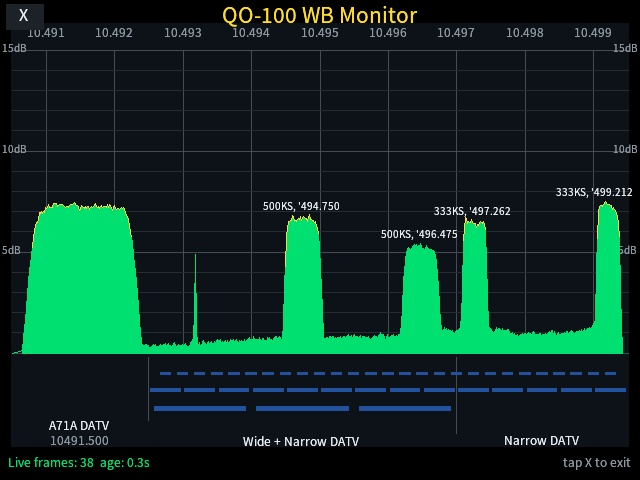
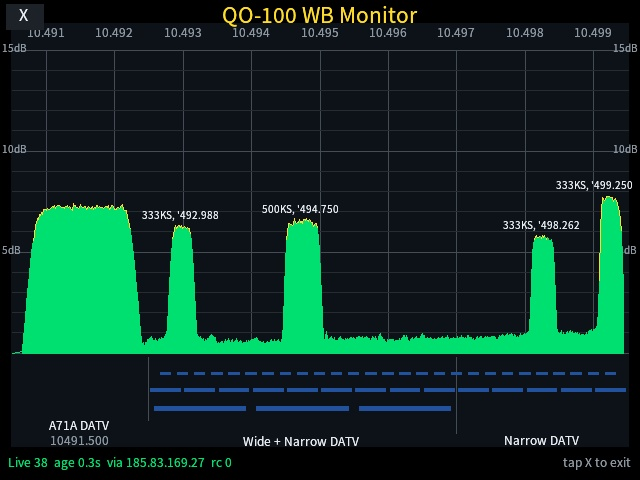
Harden BATC feed connection

diff --git a/main.py b/main.py
@@ -1,5 +1,6 @@
 from maix import app, display, image, time, touchscreen
 import base64
+import hashlib
 import os
 import socket
 import ssl
@@ -9,16 +10,25 @@ import _thread
 
 APP_TITLE = "QO-100 WB Monitor"
 
-BATC_HOST = "eshail.batc.org.uk"
-BATC_FALLBACK_IP = "185.83.169.27"
+BATC_HOST = os.environ.get("QO100_WB_HOST", "eshail.batc.org.uk")
 BATC_PORT = 443
-BATC_PATH = "/wb/fft"
-BATC_PROTOCOL = "fft"
+BATC_PATH = os.environ.get("QO100_WB_PATH", "/wb/fft")
+BATC_PROTOCOL = os.environ.get("QO100_WB_PROTOCOL", "fft")
+BATC_FALLBACK_IPS = tuple(
+    ip.strip()
+    for ip in os.environ.get("QO100_WB_FALLBACK_IPS", "185.83.169.27").split(",")
+    if ip.strip()
+)
+WS_GUID = "258EAFA5-E914-47DA-95CA-C5AB0DC85B11"
 CAFILE_CANDIDATES = (
     "/etc/ssl/certs/ca-certificates.crt",
     "/usr/lib/ssl/cert.pem",
     "/etc/ssl/cert.pem",
 )
+CONNECT_TIMEOUT_S = 10
+READ_TIMEOUT_S = 12
+RECONNECT_BASE_MS = 500
+RECONNECT_MAX_MS = 10000
 
 FFT_START_MHZ = 10490.5
 FFT_SPAN_MHZ = 9.0
@@ -71,6 +81,8 @@ class BatcFftClient:
         self.last_frame_ms = 0
         self.status = "starting"
         self.error = ""
+        self.source = ""
+        self.reconnects = 0
         self.running = True
         self.sock = None
 
@@ -84,15 +96,25 @@ class BatcFftClient:
     def snapshot(self):
         self.lock.acquire()
         try:
-            return self.latest, self.frames, self.last_frame_ms, self.status, self.error
+            return (
+                self.latest,
+                self.frames,
+                self.last_frame_ms,
+                self.status,
+                self.error,
+                self.source,
+                self.reconnects,
+            )
         finally:
             self.lock.release()
 
-    def _set_status(self, status, error=""):
+    def _set_status(self, status, error="", source=None):
         self.lock.acquire()
         try:
             self.status = status
             self.error = error
+            if source is not None:
+                self.source = source
         finally:
             self.lock.release()
 
@@ -117,30 +139,63 @@ class BatcFftClient:
                 pass
 
     def _run(self):
+        backoff_ms = RECONNECT_BASE_MS
         while self.running:
             try:
                 self._set_status("connecting")
                 self._connect_and_read()
+                backoff_ms = RECONNECT_BASE_MS
             except Exception as e:
+                self.lock.acquire()
+                try:
+                    self.reconnects += 1
+                finally:
+                    self.lock.release()
                 self._set_status("reconnecting", str(e))
                 print("BATC websocket reconnect: {}".format(e))
             self._close()
-            for _ in range(20):
+            delay_ms = backoff_ms
+            backoff_ms = min(RECONNECT_MAX_MS, backoff_ms * 2)
+            for _ in range(max(1, delay_ms // 100)):
                 if not self.running:
                     break
                 time.sleep_ms(100)
 
     def _connect_socket(self):
         last_error = None
-        for target in (BATC_HOST, BATC_FALLBACK_IP):
+        for target in self._connection_targets():
             try:
-                raw = socket.create_connection((target, BATC_PORT), timeout=10)
+                raw = socket.create_connection((target, BATC_PORT), timeout=CONNECT_TIMEOUT_S)
                 ctx = self._ssl_context()
-                return ctx.wrap_socket(raw, server_hostname=BATC_HOST)
+                return ctx.wrap_socket(raw, server_hostname=BATC_HOST), target
             except Exception as e:
                 last_error = e
                 print("connect {} failed: {}".format(target, e))
         raise last_error
+
+    def _connection_targets(self):
+        targets = []
+        seen = set()
+
+        def add(target):
+            if target and target not in seen:
+                seen.add(target)
+                targets.append(target)
+
+        try:
+            infos = socket.getaddrinfo(BATC_HOST, BATC_PORT, 0, socket.SOCK_STREAM)
+            for info in infos:
+                try:
+                    add(info[4][0])
+                except Exception:
+                    pass
+        except Exception as e:
+            print("DNS lookup {} failed: {}".format(BATC_HOST, e))
+
+        for ip in BATC_FALLBACK_IPS:
+            add(ip)
+        add(BATC_HOST)
+        return targets
 
     def _ssl_context(self):
         for cafile in CAFILE_CANDIDATES:
@@ -152,9 +207,10 @@ class BatcFftClient:
         return ssl.create_default_context()
 
     def _connect_and_read(self):
-        s = self._connect_socket()
-        s.settimeout(12)
+        s, source = self._connect_socket()
+        s.settimeout(READ_TIMEOUT_S)
         self.sock = s
+        self._set_status("handshake", source=source)
 
         key = base64.b64encode(os.urandom(16)).decode("ascii")
         request = (
@@ -181,11 +237,9 @@ class BatcFftClient:
                 raise RuntimeError("websocket handshake too large")
 
         head, rest = header.split(b"\r\n\r\n", 1)
-        status_line = head.split(b"\r\n", 1)[0].decode("latin1")
-        if "101" not in status_line:
-            raise RuntimeError(status_line)
+        self._validate_handshake(head, key)
 
-        self._set_status("waiting")
+        self._set_status("waiting", source=source)
         buf = rest
         while self.running:
             opcode, payload, buf = self._read_frame(s, buf)
@@ -198,6 +252,31 @@ class BatcFftClient:
                 raise RuntimeError("server closed websocket")
             elif opcode == 9:
                 self._send_control(s, 10, payload)
+            elif opcode in (1, 10):
+                pass
+            else:
+                print("ignored websocket opcode {}".format(opcode))
+
+    def _validate_handshake(self, head, key):
+        lines = head.decode("latin1").split("\r\n")
+        status_line = lines[0] if lines else ""
+        parts = status_line.split()
+        if len(parts) < 2 or parts[1] != "101":
+            raise RuntimeError(status_line)
+
+        headers = {}
+        for line in lines[1:]:
+            if ":" in line:
+                k, v = line.split(":", 1)
+                headers[k.strip().lower()] = v.strip()
+
+        expected = base64.b64encode(hashlib.sha1((key + WS_GUID).encode("ascii")).digest()).decode("ascii")
+        if headers.get("sec-websocket-accept", "") != expected:
+            raise RuntimeError("bad websocket accept")
+
+        protocol = headers.get("sec-websocket-protocol", "")
+        if protocol and protocol != BATC_PROTOCOL:
+            raise RuntimeError("bad websocket protocol {}".format(protocol))
 
     def _need(self, s, buf, count):
         while len(buf) < count:
@@ -461,19 +540,22 @@ def draw_spectrum(img, frame, plot_x, plot_w, graph_top, graph_bottom):
     return signals, beacon_strength
 
 
-def draw_status(img, frames, last_frame_ms, status, error):
+def draw_status(img, frames, last_frame_ms, status, error, source, reconnects):
     age_ms = now_ms() - last_frame_ms if last_frame_ms else 0
     if status == "live" and age_ms < 3000:
-        msg = "Live frames: {}  age: {:.1f}s".format(frames, age_ms / 1000.0)
+        source_text = source
+        if len(source_text) > 15:
+            source_text = source_text[:12] + "..."
+        msg = "Live {}  age {:.1f}s  via {}  rc {}".format(frames, age_ms / 1000.0, source_text, reconnects)
         col = COL_GREEN
-    elif status in ("connecting", "waiting"):
+    elif status in ("connecting", "handshake", "waiting"):
         msg = "{} {}".format(status, BATC_HOST)
         col = COL_YELLOW
     else:
         short_error = error
         if len(short_error) > 42:
             short_error = short_error[:39] + "..."
-        msg = "{} {}".format(status, short_error)
+        msg = "{} {} rc {}".format(status, short_error, reconnects)
         col = COL_RED
     img.draw_string(8, img.height() - 24, msg, col, 0.8)
     draw_text_right(img, img.width() - 8, img.height() - 24, "tap X to exit", COL_MUTED, 0.75)
@@ -543,10 +625,10 @@ try:
             app.set_exit_flag(True)
             break
 
-        frame, frames, last_frame_ms, status, error = client.snapshot()
+        frame, frames, last_frame_ms, status, error, source, reconnects = client.snapshot()
         draw_grid(base_img, plot_x, plot_y, plot_w, plot_h, graph_top, graph_bottom)
         draw_spectrum(base_img, frame, plot_x, plot_w, graph_top, graph_bottom)
-        draw_status(base_img, frames, last_frame_ms, status, error)
+        draw_status(base_img, frames, last_frame_ms, status, error, source, reconnects)
         draw_exit(base_img, touched_exit)
         disp.show(base_img)
         screenshot_saved = maybe_save_screenshot(base_img, start_ms, screenshot_saved)

diff --git a/README.md b/README.md
@@ -11,6 +11,8 @@ The app opens the same BATC wideband FFT feed used by <https://eshail.batc.org.u
 - Starts immediately into the live spectrum view.
 - Uses BATC's `wss://eshail.batc.org.uk/wb/fft` FFT feed.
 - Falls back to BATC's current IP address if local DNS is broken, while keeping TLS SNI and the HTTP `Host` header set to `eshail.batc.org.uk`.
+- Validates the WebSocket handshake, loads the system CA bundle explicitly on MaixPy, replies to server pings, and reconnects with backoff if the feed drops.
+- Shows the active connection source and reconnect count in the status line.
 - Draws the QO-100 wideband scale, beacon marker, DATV channel markers, live spectrum, and simple signal bandwidth/frequency labels.
 - Runs without third-party Python packages on MaixPy.
 
@@ -53,6 +55,21 @@ systemctl restart systemd-resolved
 getent hosts eshail.batc.org.uk
 ```
 
+The same fix can be applied from the development computer:
+
+```sh
+./scripts/fix_dns.sh root@<camera-host>
+```
+
+## Connection Settings
+
+The default feed settings should normally be left unchanged. For testing or a local relay, these environment variables are available:
+
+- `QO100_WB_HOST`: WebSocket host name, default `eshail.batc.org.uk`.
+- `QO100_WB_PATH`: WebSocket path, default `/wb/fft`.
+- `QO100_WB_PROTOCOL`: WebSocket subprotocol, default `fft`.
+- `QO100_WB_FALLBACK_IPS`: comma-separated fallback IPs, default `185.83.169.27`.
+
 ## Development Test
 
 For a one-shot remote screenshot during development, run the app with:
@@ -62,3 +79,9 @@ QO100_WB_SCREENSHOT=/tmp/qo100_wb_mon.jpg QO100_WB_SCREENSHOT_AFTER=10 python3 m
 ```
 
 The saved image is the exact frame drawn by the MaixPy renderer after the requested delay.
+
+To run the installed app remotely, wait 10 seconds, and pull the screenshot into the README image path:
+
+```sh
+./scripts/test_remote.sh root@<camera-host>
+```